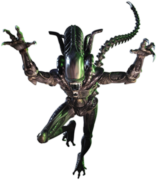
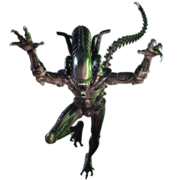
update real.fluff

diff --git a/myplugins/real.fluff/README.md b/myplugins/real.fluff/README.md
@@ -21,6 +21,10 @@ After collecting them all, you get a missions (20%) with unique rewards.<br>
 <br>
 Changelog:<br>
 <br>
+2024-04-21<br>
+changed size of alien.png to prevent error.txt mentioning<br>
+added 4 more scene images<br>
+<br>
 2024-03-13<br>
 added the choice to defer missions<br>
 added the choice to take a pet or not(doesnt influence the final mission)<br>
